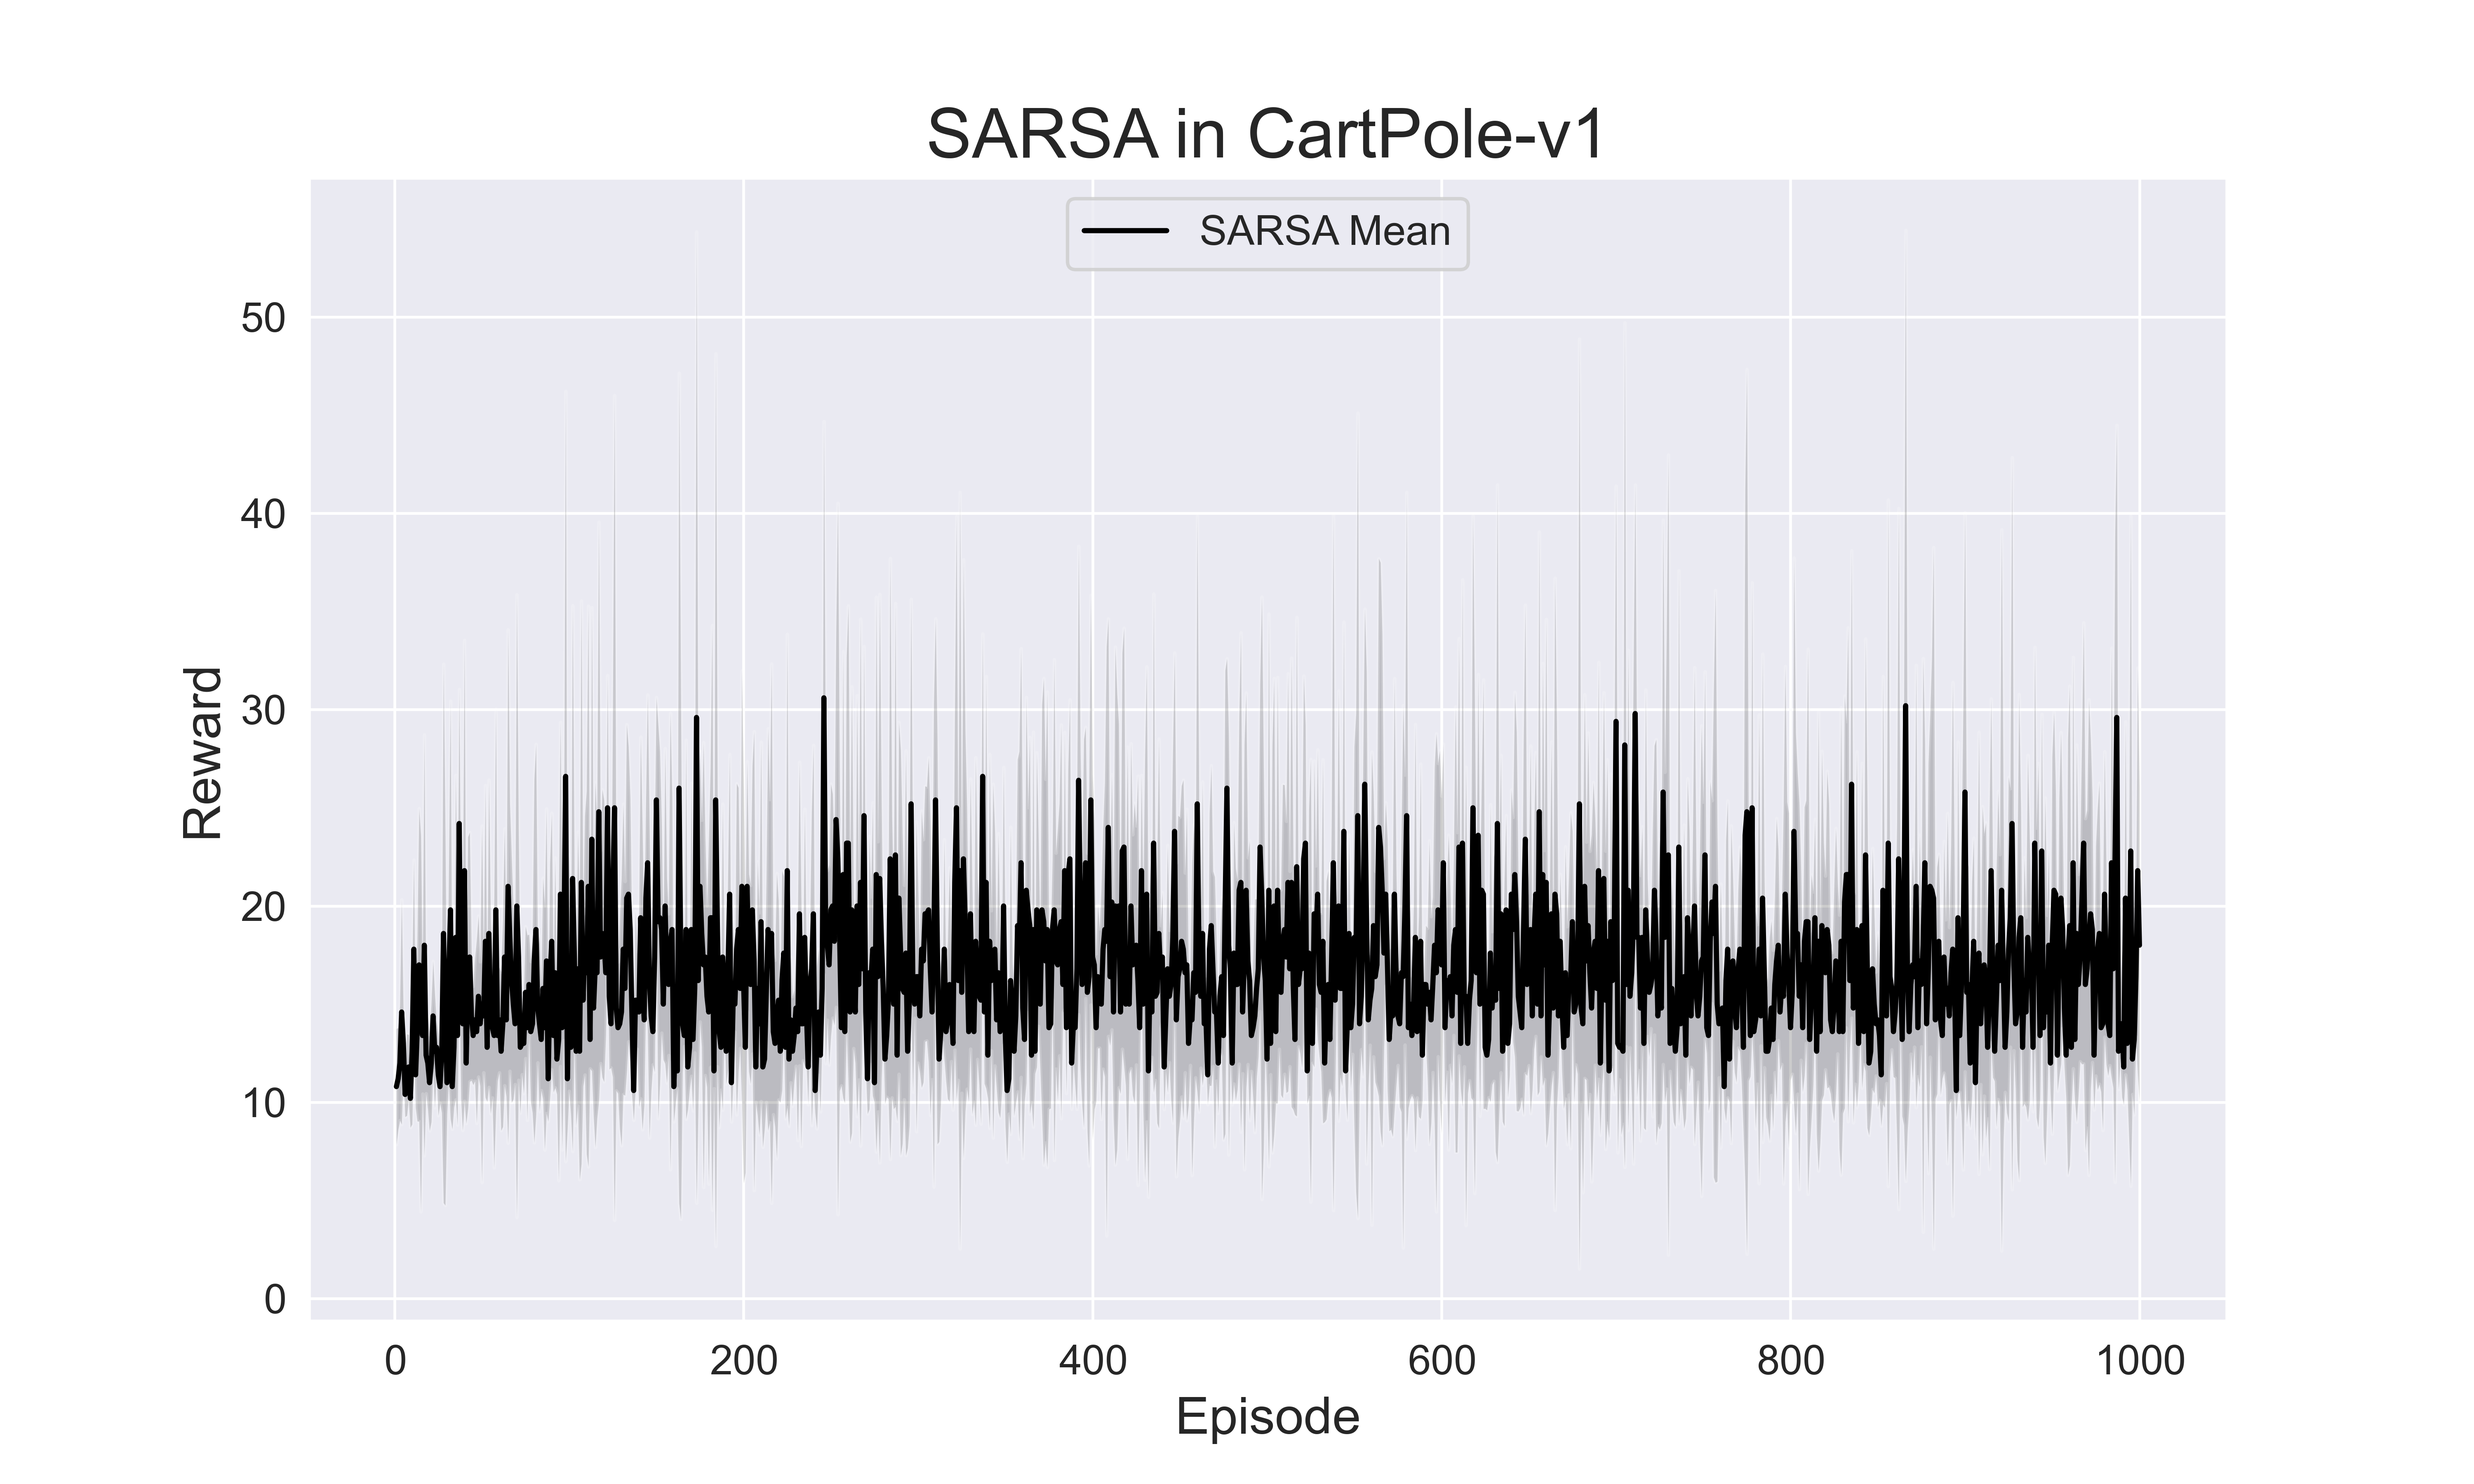
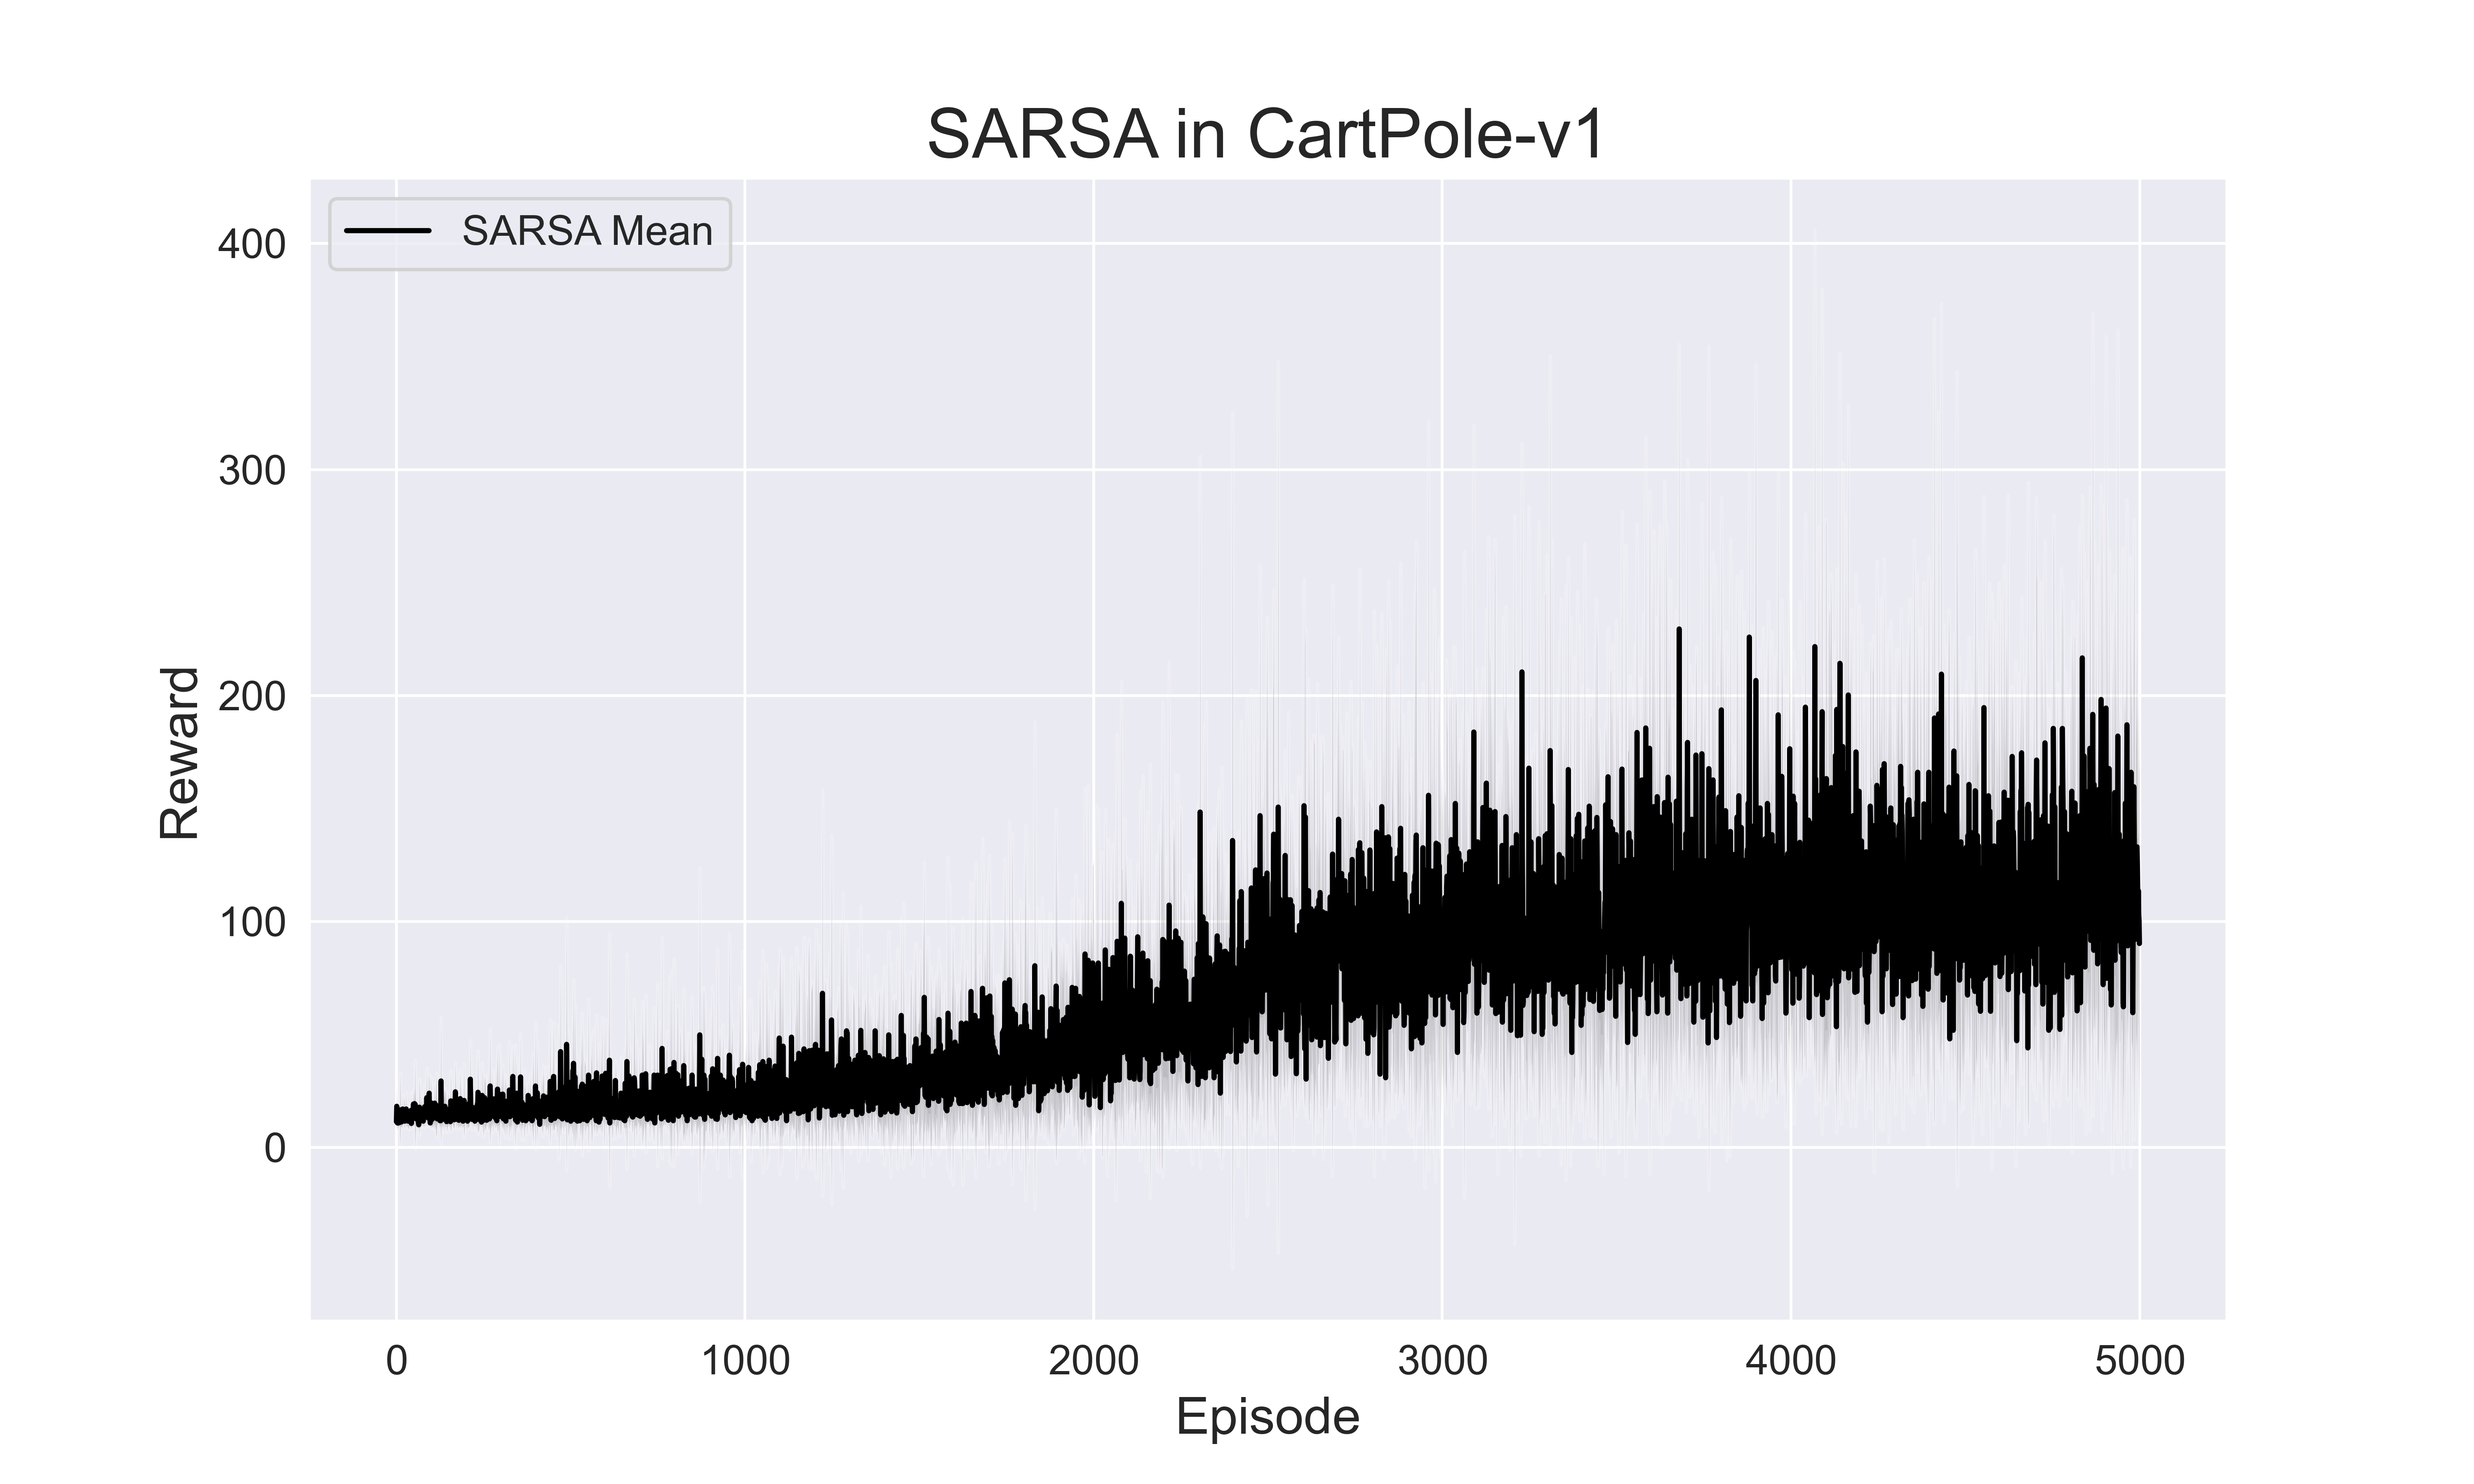
Solved for Cartpole

diff --git a/src/experiments/run_experiments.py b/src/experiments/run_experiments.py
@@ -109,7 +109,7 @@ def run_complete_experiment(env_name, discount_factor=0.99, max_steps=1000):
     
     # Number of episodes for grid search and final training
     grid_search_episodes = 500
-    final_training_episodes = 1000
+    final_training_episodes = 5000
     
     print(f"Starting grid search for SARSA on {env_name}...")
     sarsa_results = grid_search(env_name, SARSAAgent, sarsa_param_grid, grid_search_episodes, max_steps, seeds, bins=bins, low=low, high=high)
